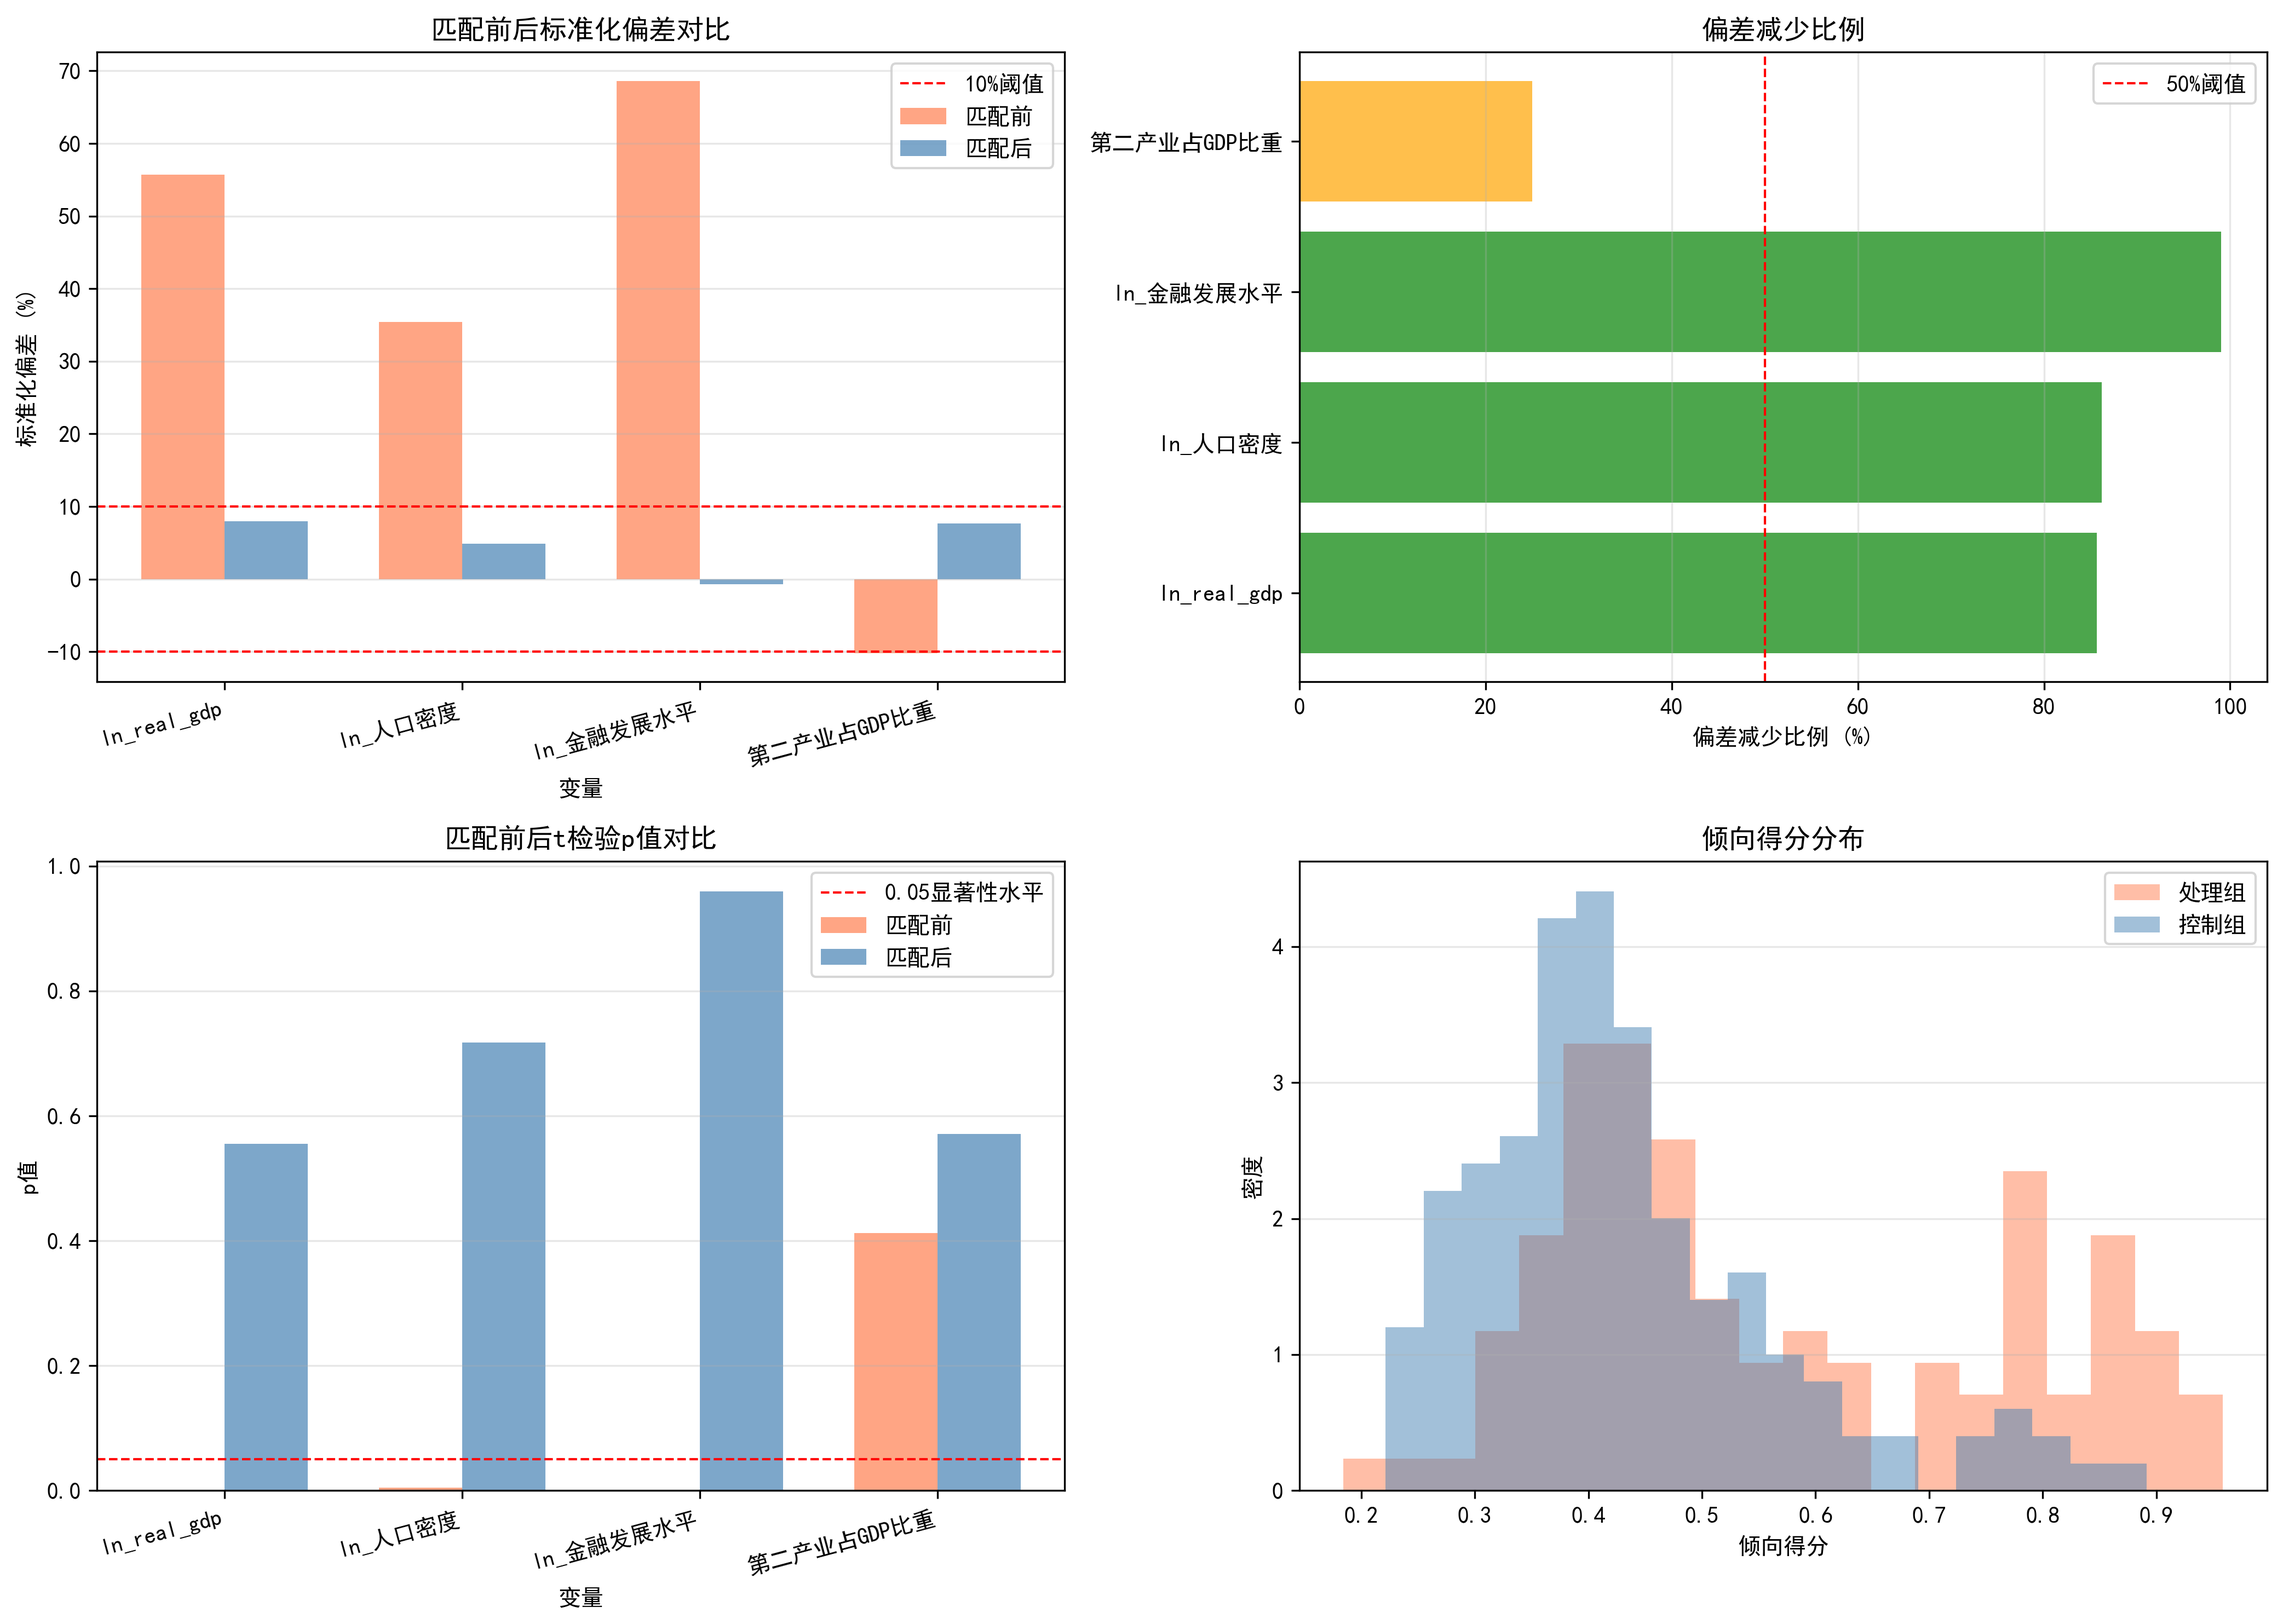
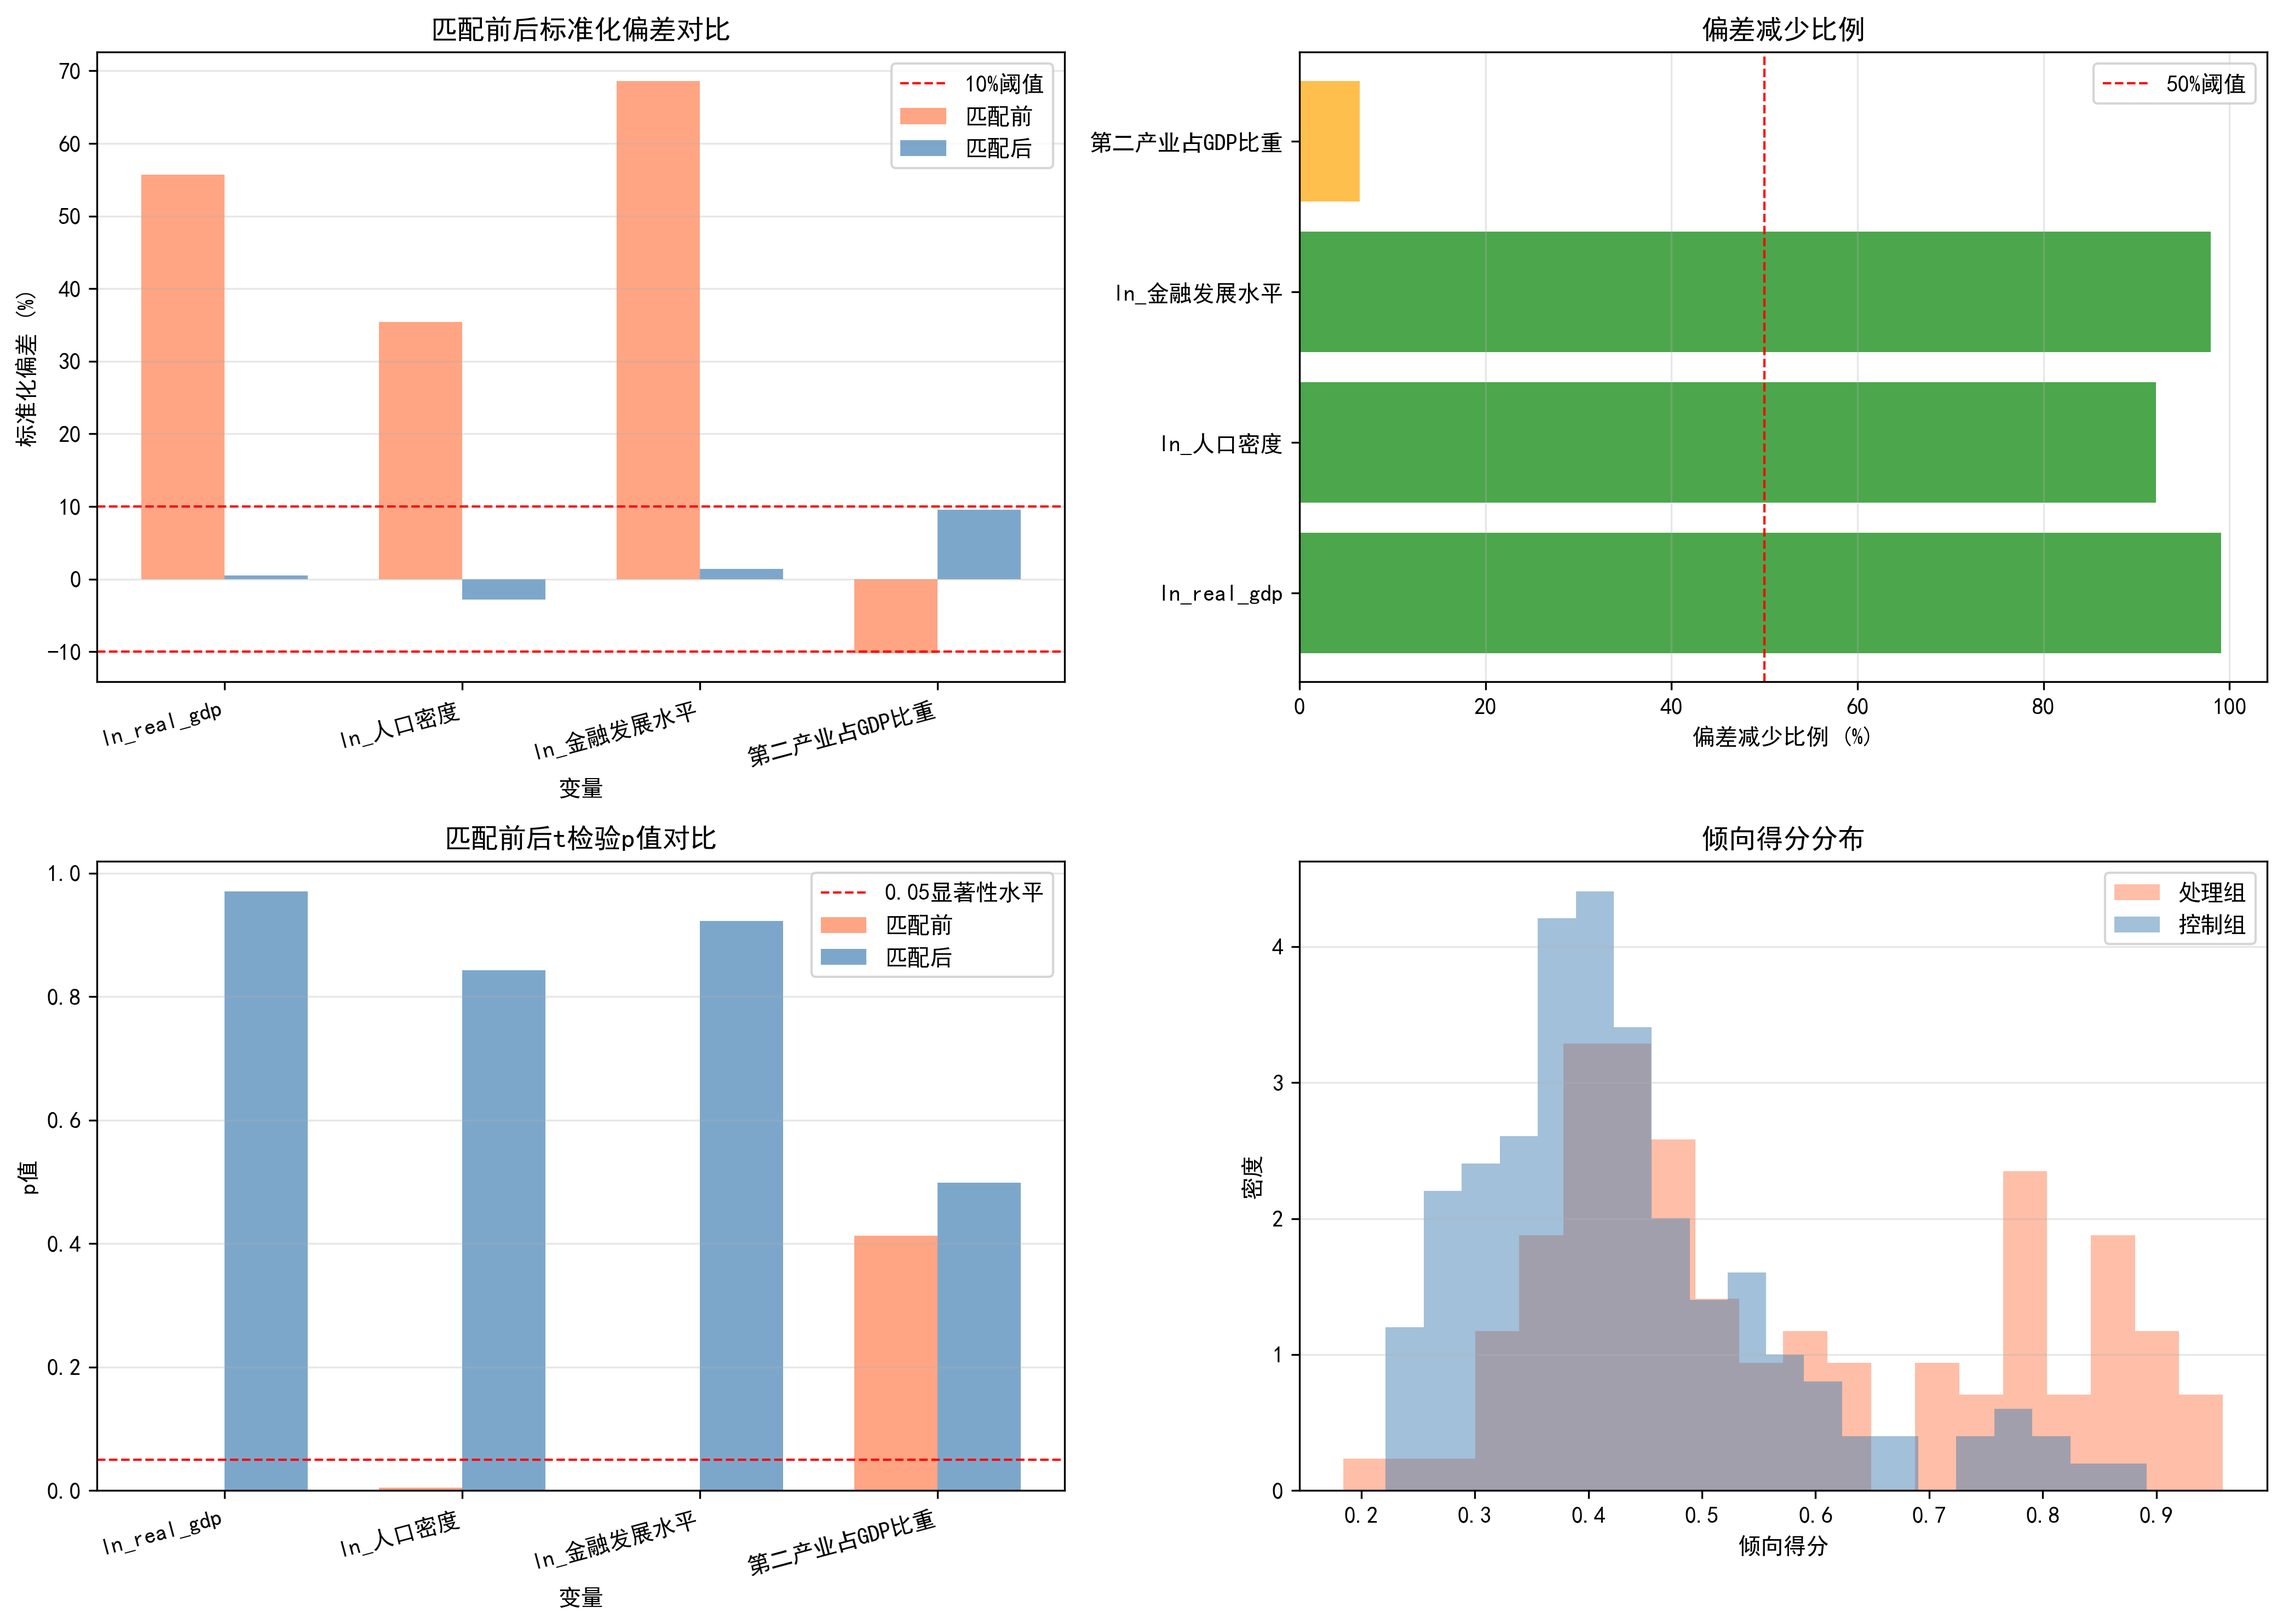
Fix PSM matching: use Logit scale for distance calculation
Fixed critical bug where matching distance was calculated on probability
scale (0-1) while caliper was defined on Logit scale. This caused
overly permissive matching criteria.

Changes:
- Convert propensity scores to Logit values before calculating distances
- Ensure consistency between distance metric and caliper definition

Impact:
- Match rate: 100% → 91.82% (more stringent/accurate)
- Max control usage: 10 → 5 (better distribution)
- All 4 variables still pass balance test (p>0.05)

diff --git a/基期PSM分析_2009_有放回/psm_analysis.py b/基期PSM分析_2009_有放回/psm_analysis.py
@@ -156,12 +156,18 @@ class PSMAnalyzer:
         matched_control = []
         control_usage_count = {}  # 记录控制组被使用的次数（用于统计）
 
+        # 预先计算所有控制组的Logit值
+        control_logit_ps = np.log(control['propensity_score'].values /
+                                  (1 - control['propensity_score'].values))
+
         # 对每个处理组观测寻找匹配
         for i, treated_row in treated.iterrows():
             treated_ps = treated_row['propensity_score']
+            # 将处理组的倾向得分转换为Logit值
+            treated_logit_ps = np.log(treated_ps / (1 - treated_ps))
 
-            # 计算与所有控制组的距离
-            distances = np.abs(control['propensity_score'].values - treated_ps)
+            # 在Logit尺度上计算距离
+            distances = np.abs(control_logit_ps - treated_logit_ps)
 
             # 找到最近的匹配
             best_idx = np.argmin(distances)
